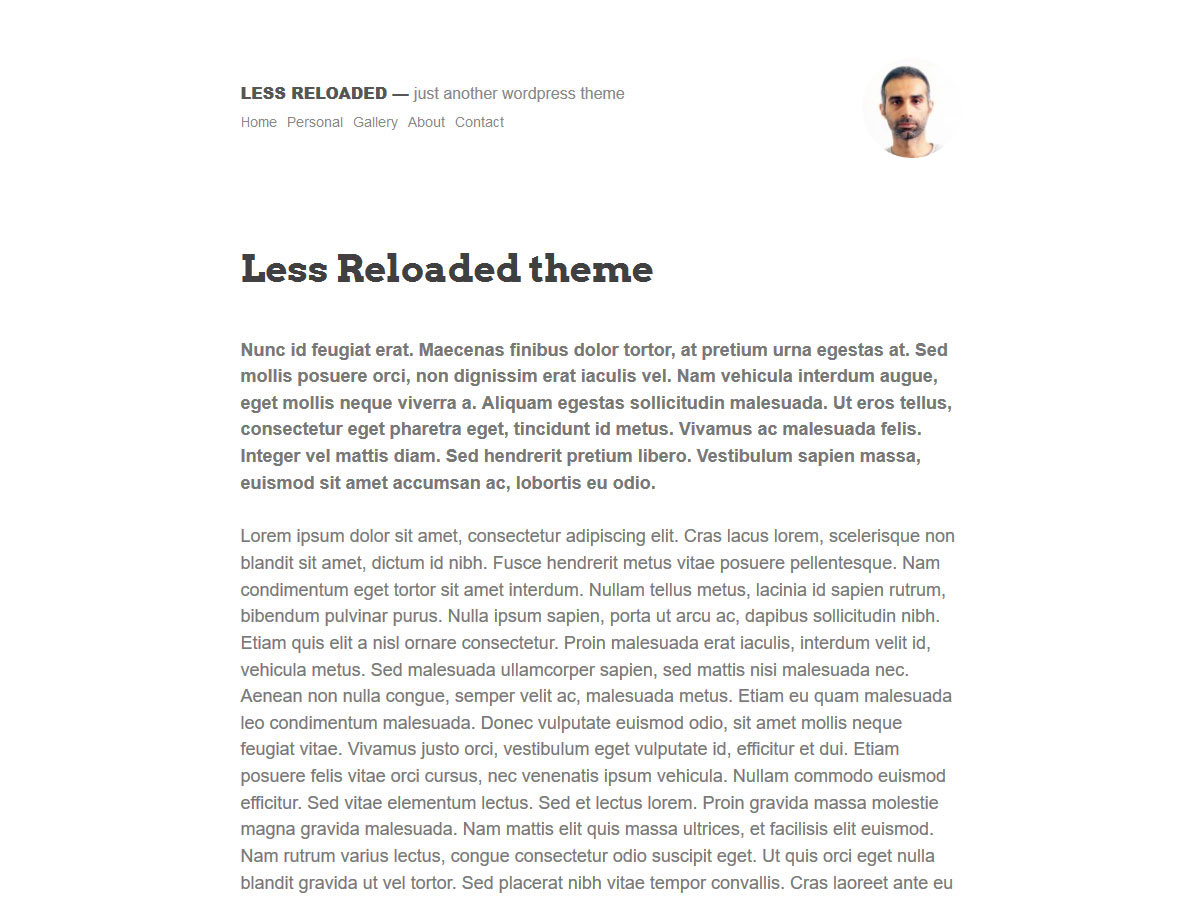
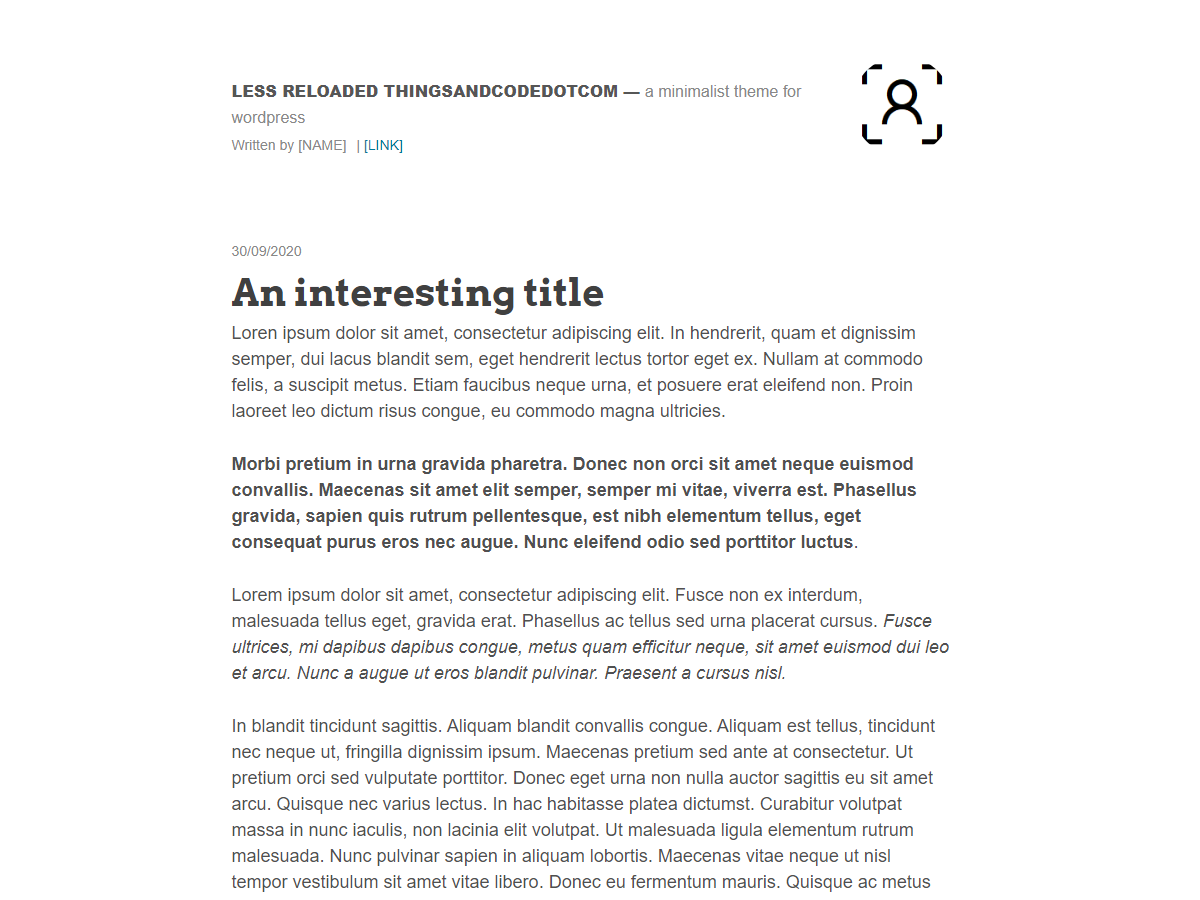
Version 1.1.0

Changed region(s): [[0.185, 0.2489, 0.8017, 0.9956], [0.185, 0.0933, 0.6783, 0.1867], [0.7092, 0.0622, 0.8017, 0.1867]]

diff --git a/style.css b/style.css
@@ -6,9 +6,9 @@ Author: Sergio Monedero
 Author URI: https://thingsandcode.com
 Requires PHP: 5.6
 Requires at least: WordPress 4.0
-Tested up to: WordPress 5.3
+Tested up to: WordPress 5.5.1
 Stable tag: 1.1.0
-Description: Theme for my blog thingsandcode.com Based on Less-Reloaded with a few personalizations and SEO enhacements.
+Description: Theme for thingsandcode.com Based on Less-Reloaded with a few personalizations and SEO enhacements.
 License: GNU General Public License v3 or later
 License URI: http://www.gnu.org/licenses/gpl-3.0.html
 Tags: one-column, custom-menu, rtl-language-support, threaded-comments, translation-ready

diff --git a/index.php b/index.php
@@ -5,9 +5,8 @@
 <meta name="viewport" content="width=device-width" />
 
 <link rel="profile" href="http://gmpg.org/xfn/11" />
-<meta name="robots" content="noimageindex<?php if(is_404() || is_page() || is_category() || is_archive()) {?>,noindex<?php } ?>" />
+<?php if(is_404()) {?><meta name="robots" content="noindex" /><?php } ?>
 <?php wp_head(); ?>
-<link rel="stylesheet" type="text/css" href="https://cdn.jsdelivr.net/npm/cookieconsent@3/build/cookieconsent.min.css" />
 </head>
 
 <body <?php body_class(); ?>>
@@ -22,17 +21,17 @@
 <header id="masthead" class="site-header">
 	<div class="container">
 		<div class="gravatar">
-			<img alt="" src="/wp-content/uploads/2019/11/foto_perfil.jpg" class="avatar avatar-100 photo" height="100" width="100">
+			<img alt="author" src="<?php bloginfo('template_url'); ?>/dummy-avatar.png" class="avatar avatar-100 photo" height="100" width="100">
 		</div><!-- /author -->
 		
 		<div id="brand">
 			<span class="site-title"><a href="<?php echo esc_url( home_url( '/' ) ); ?>" title="<?php echo esc_attr( get_bloginfo( 'name', 'display' ) ); ?>" rel="home"><?php echo esc_attr( get_bloginfo( 'name' ) ); ?></a> &mdash; <span><?php echo esc_attr( get_bloginfo( 'description' ) ); ?></span></span>
 		</div><!-- /brand -->
-	
+
 		<nav class="site-navigation main-navigation">
 			<div class="menu"><ul>
-				<li class="page_item">Written by Sergio</li>
-				<li class="page_item">| <a href="https://www.linkedin.com/in/sergiocoder/" target="_blank">LinkedIn</a></li>
+				<li class="page_item">Written by [NAME]</li>
+				<li class="page_item">| <a href="#" target="_blank">[LINK]</a></li>
 			</ul></div>
 		</nav><!-- .site-navigation .main-navigation -->
 		
@@ -227,30 +226,12 @@
 
 <footer class="site-footer">
 	<div class="site-info container">
-		Content under <a href="http://creativecommons.org/licenses/by/4.0/" rel="license">Creative Commons Attribution 4.0 International</a> license
+		<a href="https://wordpress.org/" title="<?php esc_html_e( 'A Semantic Personal Publishing Platform', 'less-reloaded'); ?>" rel="generator"><?php esc_html_e( 'Proudly powered by WordPress', 'less-reloaded'); ?></a>
+		<span class="sep"> <?php esc_html_e( 'and', 'less-reloaded' ); ?> </span>
+		<?php esc_html_e('theme Less-Reloaded-Thingsandcodedotcom by ', 'less-reloaded'); ?> <a href="https://github.com/Branyac" rel="_blank"> <?php esc_html_e('Branyac @ Github', 'less-reloaded') ?> </a>.
 	</div><!-- .site-info -->
 </footer><!-- #colophon .site-footer -->
 
 <?php wp_footer(); ?>
-
-<?php if (!is_user_logged_in()) { ?>
-	<script src="https://cdn.jsdelivr.net/npm/cookieconsent@3/build/cookieconsent.min.js" data-cfasync="false"></script>
-	<script>
-	window.cookieconsent.initialise({
-	"palette": {
-		"popup": {
-		"background": "#000"
-		},
-		"button": {
-		"background": "#f1d600"
-		}
-	},
-	"theme": "edgeless"
-	});
-	</script>
-	<script>
-		let oId="UA-8277";!function(a,b,c,d,e,f,g){a.GoogleAnalyticsObject=e,a[e]=a[e]||function(){(a[e].q=a[e].q||[]).push(arguments)},a[e].l=1*new Date,f=b.createElement(c),g=b.getElementsByTagName(c)[0],f.async=1,f.src=d,g.parentNode.insertBefore(f,g)}(window,document,"script","https://www.google-analytics.com/analytics.js","ga"),ga("create",oId+"6104-1","auto"),ga("set","dimension1","trafico-real"),ga("set","anonymizeIp",true),ga("send","pageview");
-	</script>
-<?php } ?>
 </body>
 </html>

diff --git a/README.md b/README.md
@@ -1,60 +1,33 @@
-# Wordpress theme for thingsandcode.com based on Less Reloaded
+# About Less Reloaded-thingsandcodedotcom
+A simple minimal WordPress theme built with only what is needed to survive.
 
-Customizations:
-- **Photo from static URL instead of Gravatar**.
-- **The link bar has been replaced by my name and my LinkedIn profile**.
-- **I put the license of the contents in the footer**.
-- **Improved readability**: I changed the color of the content to increase contrast.
-- **I replaced the comments counter by the date of the post** and put it over the title of the posts.
-- **SEO**:
-    - **Robots: noimageindex**: Because images are not the relevant thing of this blog.
-    - **Robots: noindex**: Disable indexing for 404, pages, categories, tags, and archive. Only homepage and posts are indexed on search engines.
-    - **Add Google Analytics**: To understand how people interact with the blog.
-    - **Disable emojis**: For faster page load times. Also I don't use emojis.
-- **Bugs solved**:
-    - **Remove `<h1 />` from `<header />`**: Because an html page should have only one title.
-    - **Remove `role` attribute**: Removed form Header, Navigation bar, and Footer because are not necessary when using the html tags `<header />`, `<nav />`, and `<footer />`.
-    - **Move the comments form outside `<ol />`** to pass w3 html validator.
-- **Added GDPR notice**
+Less is a super minimal theme, both front end and back end. Adding no bloat whatesover. It only uses the minimum requirements that WordPress has, a stylesheet, screenshot and the index page.
 
-Feel free to download and use this theme in your page.
-**IMPORTANT: CHANGE THESE THINGS BEFORE USING THIS THEME IN YOUR WEBSITE!**
-- **Change the URL of the avatar and put a photo of yours**.
-- **Change my name and LinkedIn link for yours**.
-- **Delete Google Analytics tracking code at `<footer />`**.
+Less Reloaded is modified version that works with WordPress 5 and it's translation ready and it support rtl.
+Less Reloaded-thingsandcodedotcom is modified version optimized for personal blogs.
 
-# About Less Reloaded
-
-A simple minimal WordPress theme built with only what is needed to survive
-
-Less is a super minimal theme, both front end and back end. adding no bloat whatesover. It only uses the minimum requirements that WordPress has, a stylesheet, screenshot and the index page.
-Less Reloaded is modefied version that works with WordPress 5 and it's translation ready and it support rtl.
-
-
-== Copyright ==
+### Copyright
+Less Reloaded-Thingsandcodedotcom is based on Less Reloaded Theme and distributed under the terms of the GNU GPL License
 
 Less Reloaded Theme is based on Less Theme © Jared Erickson, GPL License - https://github.com/alliswell/Less
 Less Reloaded Theme is distributed under the terms of the GNU GPL
 
-== Changelog ==
+### Changelog
 
-= 1.0.3 =
-* Fix 404 error
+= 1.1.0 =
+* 100% compatible with WordPress 5.5.1
 * Update screenshot
-* Update readme.txt
+* Update README.md
+* Replace customizations like images, links with generic content
+* Replace license on footer by info of the theme
+* Remove noimageindex and noindex in archive, pages, and categories
+* Remove Google Analytics tracking code and GDPR notice
 
-= 1.0.2 =
-* Update screenshot
-* Remove fitvids.js due to WordPress new embeds
-* Move pingback_url to function.php and add a conditional for it
-* Remove break_credits action in footer
-* Add Google font with wp_enqueue_style
-
-= 1.0.1 =
-* Update readme.txt
-* Update Copyright
-* Update screenshot
-* Some fixes
-
-= 1.0 =
-* Initial release
+= 1.0.0 =
+* First version, based on Less Reloaded Theme version 1.0.3
+* Fix: Remove `<h1 />` from `<header />`**. Pages must have only one title
+* Fix: Remove `role` attribute because is not necessary when using these tags: `<header />`, `<nav />`, and `<footer />`
+* Fix: Move the comments form outside `<ol />`** to pass w3 html validator
+* Show publish date
+* Add noimageindex and noindex in archive, pages, and categories
+* Add Google Analytics tracking code and GDPR notice
